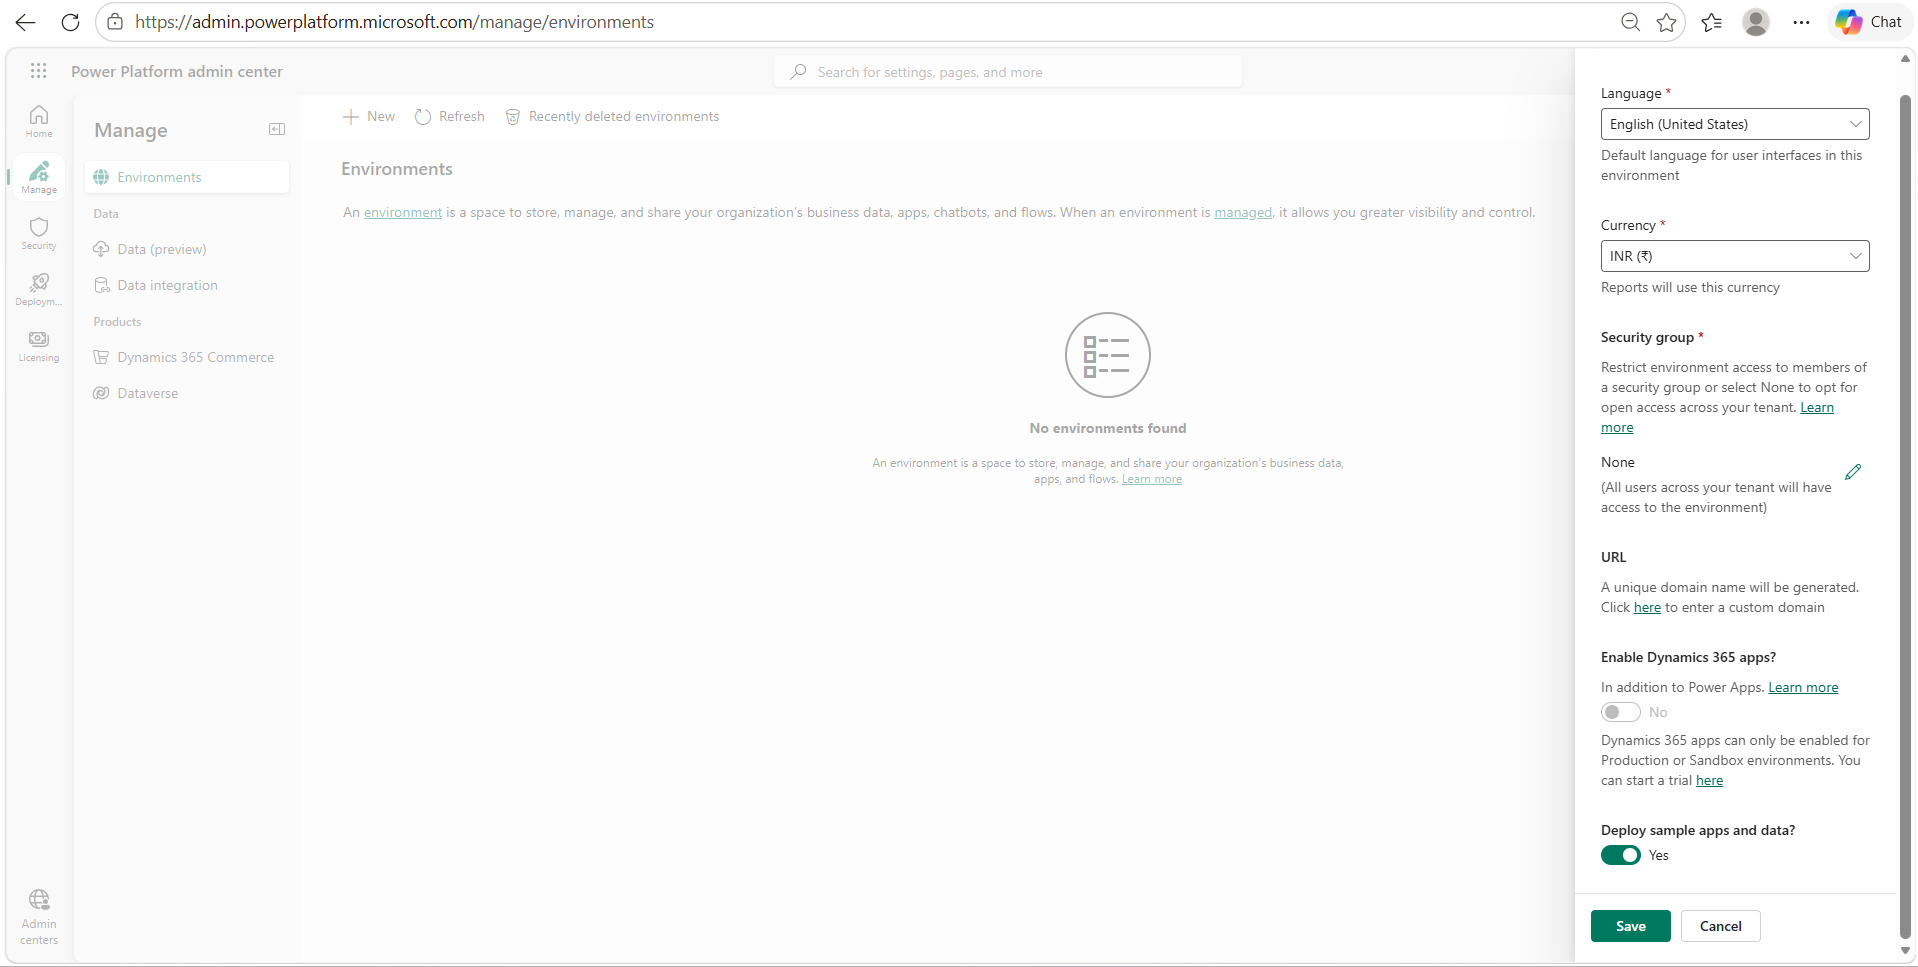
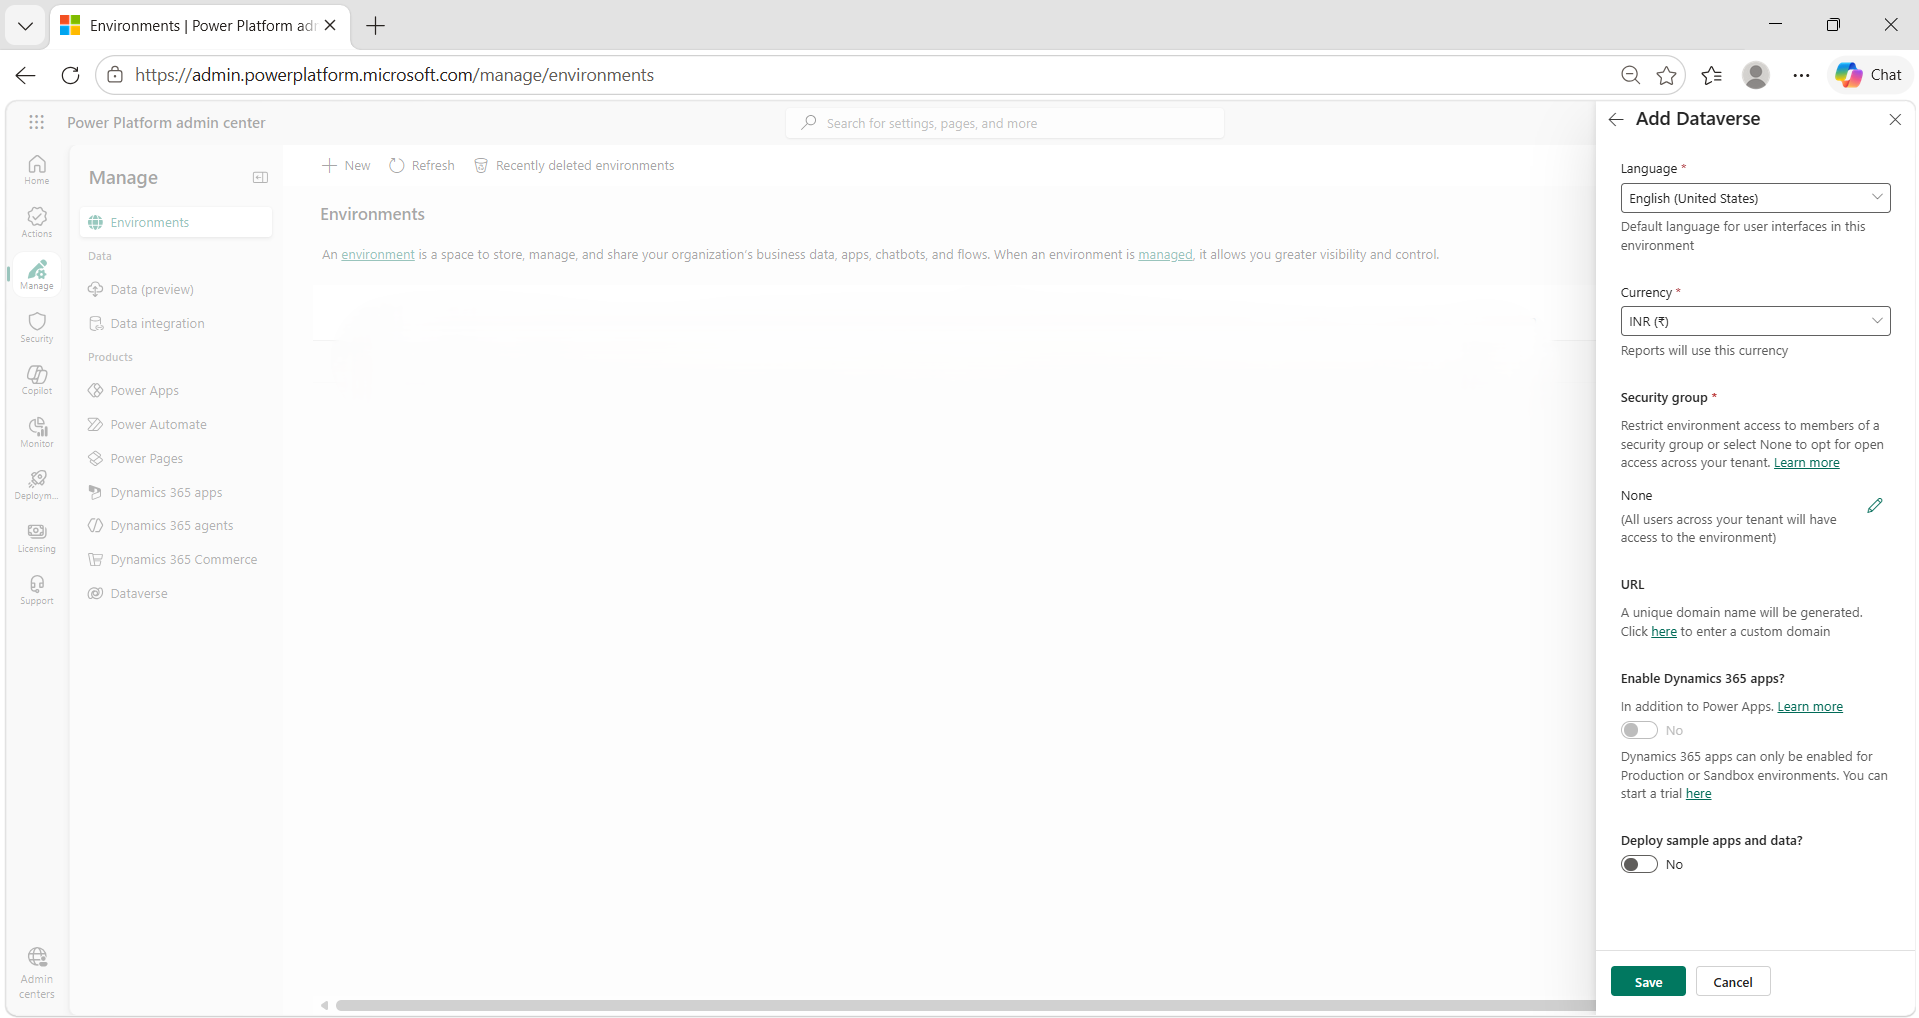
docs(day-09): update environment setup instructions

diff --git a/Instructions/Exercises/Day-09/Lab-00-ILT-setup.md b/Instructions/Exercises/Day-09/Lab-00-ILT-setup.md
@@ -57,8 +57,14 @@ Before you start the lab exercises, you must create a development environment fo
 ### Task 1.3 - Access Copilot Studio
 
 1. In a new browser tab, navigate to `https://copilotstudio.microsoft.com/` and sign in if prompted.
+
    > [!NOTE]
-   > If Copilot Studio doesn't load your environment, get the environment ID (GUID) from the environment's page at `https://admin.powerplatform.microsoft.com/manage/environments`, then open `https://copilotstudio.microsoft.com/environments/<your-environment-id>/home` directly. You can find your `<your-environment-id>` by clicking your environment and, inside **Details**, locating the **Environment ID**.
+   > If Copilot Studio does not automatically load your environment, open it directly using the environment ID:
+   >
+   > 1. Go to the [Power Platform admin center](https://admin.powerplatform.microsoft.com/manage/environments).
+   > 2. Select your environment.
+   > 3. In the **Details** section, copy the **Environment ID**.
+   > 4. Open `https://copilotstudio.microsoft.com/environments/<your-environment-id>/home`, replacing `<your-environment-id>` with the copied environment ID.
 2. If prompted, select **Get Started** and keep the default country or region settings.
 3. Skip any welcome messages.
 4. Look at the **lower-left corner** of the page. You will see your account name at the very bottom. **Just above your account name is the Environment Selector.**
